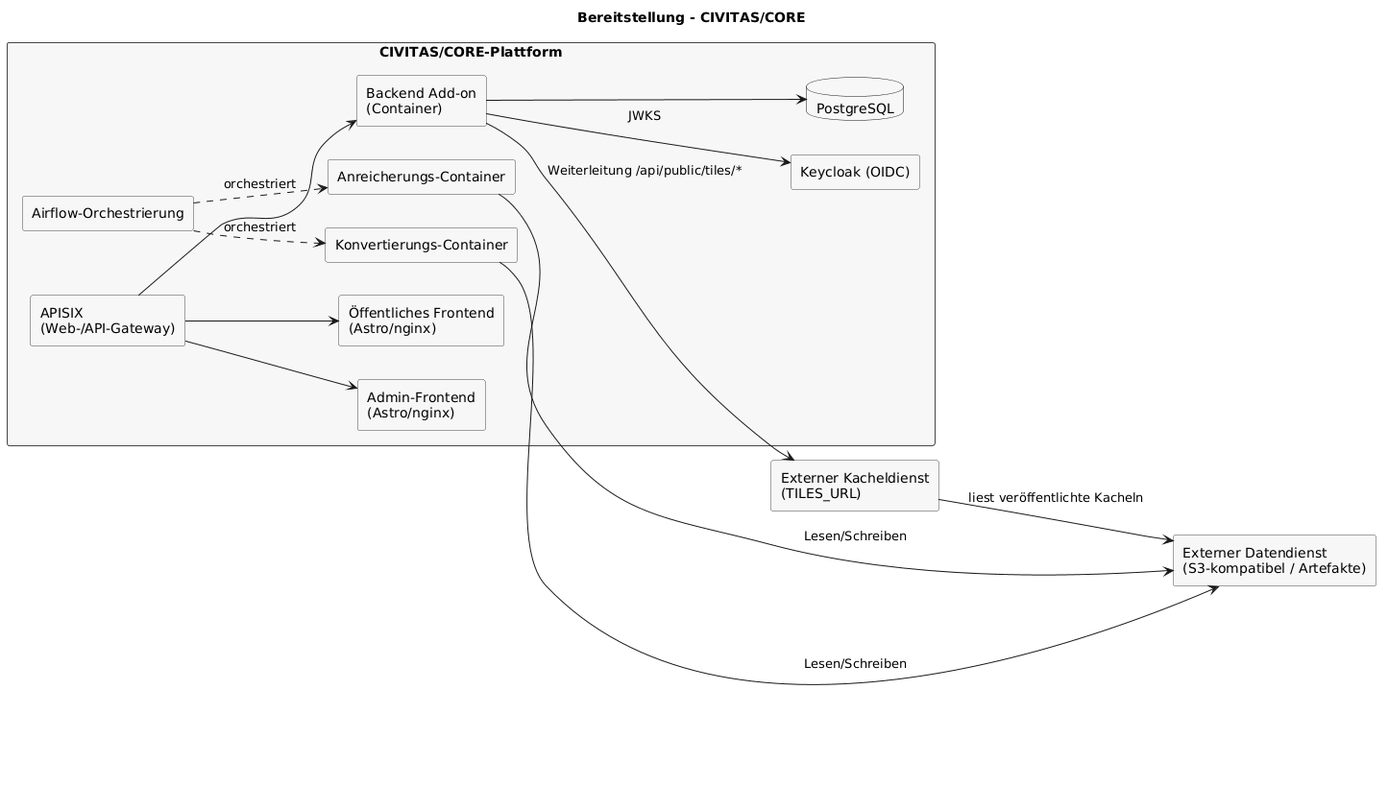
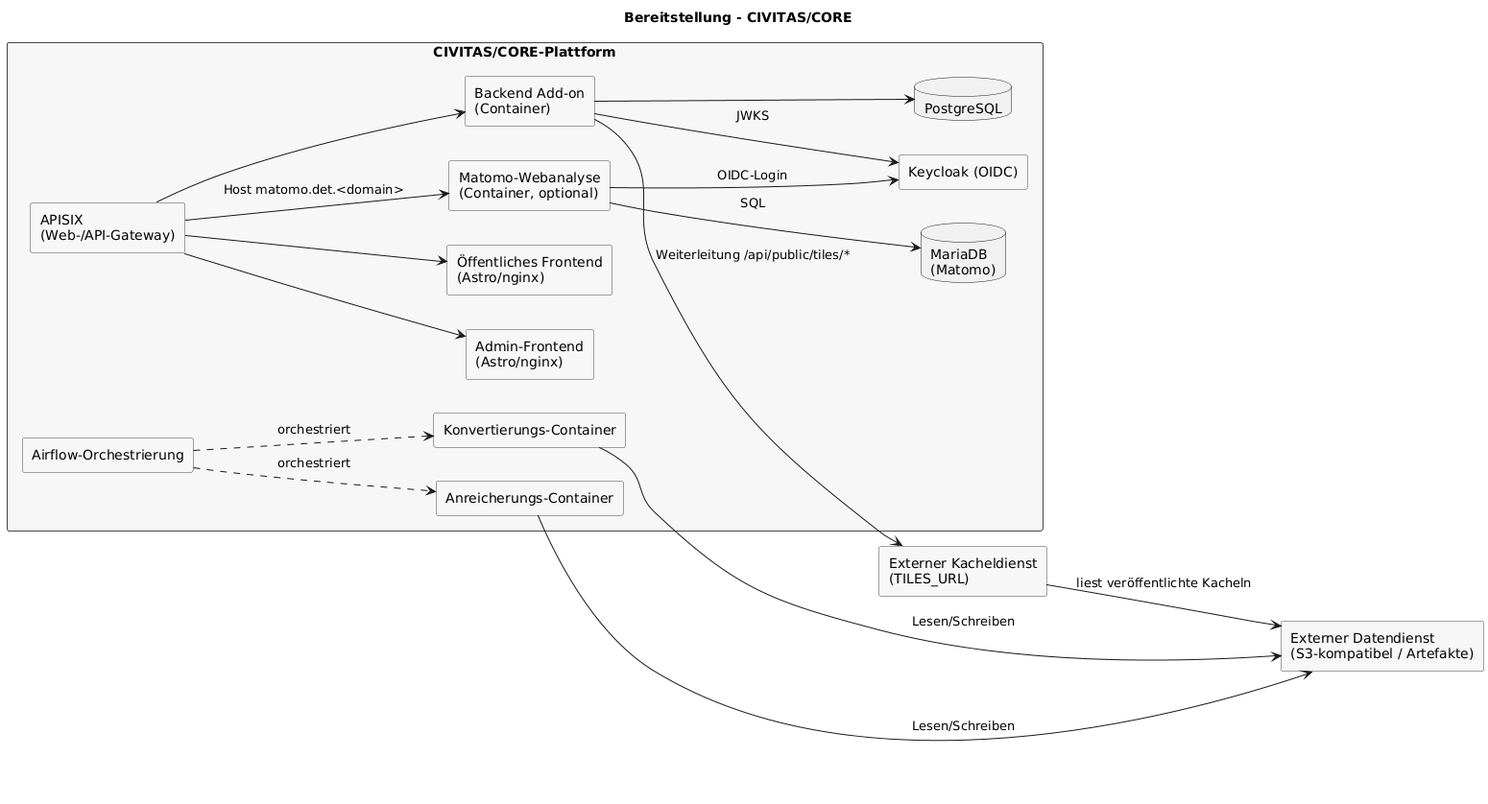
docs: updated the matomo status and diagrams

diff --git a/apps/backend/docs/roadmap/mvp-definition.md b/apps/backend/docs/roadmap/mvp-definition.md
@@ -69,6 +69,7 @@ Quelle: `raw/mvp-roadmap.puml`
 
 | Datum | Betroffener Umfang | Bisheriger Stand | Neuer Stand |
 | --- | --- | --- | --- |
+| 2026-10-30 | Matomo (FA-115 bis FA-117, FA-119 bis FA-124, TA-129 bis TA-132, TA-143 bis TA-150) | Niedrig priorisiert und keinem Sprint zugeordnet; eine eigene Instanz war noch aufzubauen und abzustimmen | Nach Sprint 19 technisch umgesetzt und ab v1.8.0 enthalten: Tracking-Adapter und Consent-Management im Public-Frontend sowie eine eigene Matomo-Instanz mit Keycloak-Login, die das Deployment-Add-on optional ausrollt. Produktiv noch nicht aktiviert; dafür sind die Freigabe der Betriebsparameter nach FA-117/TA-131 sowie die Aktivierung über `matomo.enable`, `MATOMO_URL` und `MATOMO_SITE_ID` erforderlich |
 | 2026-09-03 | Release-Zuordnung TA-15, TA-116 bis TA-120 und TA-133 bis TA-141 | Die Anforderungen waren im technischen Anforderungsdokument keinem Release beziehungsweise Sprint zugeordnet | TA-15 wird Sprint 18 zugeordnet. TA-116 bis TA-120 sowie TA-133 bis TA-141 werden Release 4 zugeordnet. Die Aktualisierungspipeline wird ohne fest eingebauten Zyklus manuell und nach Bedarf ausgelöst; Ergänzungen der Quellen und Metadaten werden bis einschließlich Sprint 19 nachgeführt |
 | 2026-09-02 | Sprint 18/19 und Inbetriebnahme | Sprint 18 und Sprint 19 waren vollständig für Inbetriebnahme, Abnahmeunterstützung und kritische Korrekturen bis 14.09.2026 vorgesehen | Sprint 18 wird noch für Entwicklung und Sprint 19 für Bugfixing genutzt. Aufgrund der laufenden Plattform-Updates verdichtet sich die Inbetriebnahme auf Sprint 19. Sprint 19 wird tendenziell bis 21.09.2026 verlängert; die zusätzliche Woche erweitert nur den Zeitraum, nicht den geplanten Inhalt |
 | 2026-09-01 | TA-74/TA-75 - Rechenmethoden und Nachweise | Die verwendeten Formeln, externen Katalogwerte und Fundstellen waren nicht in einem einheitlichen, versionsgebundenen Nachweis zusammengeführt | Der implementierte Rechenumfang ist mit Core v0.19.0, konkreten Formeln, Codepfaden, Seiten-, Tabellen- und Zeilenbezügen dokumentiert; TA-75 und TA-74 sind insoweit abgeschlossen. Nur der nicht implementierte Teilumfang Sanierungsinvestitionen/Amortisation bleibt wegen des fehlenden BKI-Datenzugangs blockiert |
@@ -209,7 +210,7 @@ Ergebnis:
 
 Zugeordnete Anforderungen:
 
-> **Aktuelle Abweichung von der historischen Release-Zuordnung:** FA-84 und FA-95 sind wegen fehlender BKI-Daten keinem Sprint zugeordnet. White-Labeling (FA-106 bis FA-114, TA-121 bis TA-128) ist für Sprint 18 vorgesehen. Matomo (FA-115 bis FA-117, TA-129 bis TA-132) ist niedrig priorisiert und aktuell keinem verbindlichen Sprint zugeordnet.
+> **Aktuelle Abweichung von der historischen Release-Zuordnung:** FA-84 und FA-95 sind wegen fehlender BKI-Daten keinem Sprint zugeordnet. White-Labeling (FA-106 bis FA-114, TA-121 bis TA-128) ist für Sprint 18 vorgesehen. Matomo (FA-115 bis FA-117, TA-129 bis TA-132) wurde nach Sprint 19 technisch umgesetzt (ab v1.8.0), ist aber noch nicht produktiv aktiviert.
 
 - Fachliche Anforderungen: [FA-01](../requirements/02-functional-requirements.md#fa-01), [FA-02](../requirements/02-functional-requirements.md#fa-02), [FA-03](../requirements/02-functional-requirements.md#fa-03), [FA-07](../requirements/02-functional-requirements.md#fa-07), [FA-08](../requirements/02-functional-requirements.md#fa-08), [FA-09](../requirements/02-functional-requirements.md#fa-09), [FA-10](../requirements/02-functional-requirements.md#fa-10), [FA-11](../requirements/02-functional-requirements.md#fa-11), [FA-12](../requirements/02-functional-requirements.md#fa-12), [FA-13](../requirements/02-functional-requirements.md#fa-13), [FA-14](../requirements/02-functional-requirements.md#fa-14), [FA-15](../requirements/02-functional-requirements.md#fa-15), [FA-16](../requirements/02-functional-requirements.md#fa-16), [FA-17](../requirements/02-functional-requirements.md#fa-17), [FA-18](../requirements/02-functional-requirements.md#fa-18), [FA-19](../requirements/02-functional-requirements.md#fa-19), [FA-20](../requirements/02-functional-requirements.md#fa-20), [FA-21](../requirements/02-functional-requirements.md#fa-21), [FA-22](../requirements/02-functional-requirements.md#fa-22), [FA-23](../requirements/02-functional-requirements.md#fa-23), [FA-24](../requirements/02-functional-requirements.md#fa-24), [FA-25](../requirements/02-functional-requirements.md#fa-25), [FA-26](../requirements/02-functional-requirements.md#fa-26), [FA-27](../requirements/02-functional-requirements.md#fa-27), [FA-28](../requirements/02-functional-requirements.md#fa-28), [FA-29](../requirements/02-functional-requirements.md#fa-29), [FA-30](../requirements/02-functional-requirements.md#fa-30), [FA-39](../requirements/02-functional-requirements.md#fa-39), [FA-40](../requirements/02-functional-requirements.md#fa-40), [FA-41](../requirements/02-functional-requirements.md#fa-41), [FA-65](../requirements/02-functional-requirements.md#fa-65), [FA-66](../requirements/02-functional-requirements.md#fa-66), [FA-67](../requirements/02-functional-requirements.md#fa-67), [FA-73](../requirements/02-functional-requirements.md#fa-73), [FA-78](../requirements/02-functional-requirements.md#fa-78), [FA-79](../requirements/02-functional-requirements.md#fa-79), [FA-80](../requirements/02-functional-requirements.md#fa-80), [FA-81](../requirements/02-functional-requirements.md#fa-81), [FA-83](../requirements/02-functional-requirements.md#fa-83), [FA-84](../requirements/02-functional-requirements.md#fa-84), [FA-91](../requirements/02-functional-requirements.md#fa-91), [FA-92](../requirements/02-functional-requirements.md#fa-92), [FA-93](../requirements/02-functional-requirements.md#fa-93), [FA-94](../requirements/02-functional-requirements.md#fa-94), [FA-95](../requirements/02-functional-requirements.md#fa-95), [FA-96](../requirements/02-functional-requirements.md#fa-96), [FA-97](../requirements/02-functional-requirements.md#fa-97), [FA-98](../requirements/02-functional-requirements.md#fa-98), [FA-99](../requirements/02-functional-requirements.md#fa-99), [FA-105](../requirements/02-functional-requirements.md#fa-105), [FA-106](../requirements/02-functional-requirements.md#fa-106), [FA-107](../requirements/02-functional-requirements.md#fa-107), [FA-108](../requirements/02-functional-requirements.md#fa-108), [FA-109](../requirements/02-functional-requirements.md#fa-109), [FA-110](../requirements/02-functional-requirements.md#fa-110), [FA-111](../requirements/02-functional-requirements.md#fa-111), [FA-112](../requirements/02-functional-requirements.md#fa-112), [FA-113](../requirements/02-functional-requirements.md#fa-113), [FA-114](../requirements/02-functional-requirements.md#fa-114), [FA-115](../requirements/02-functional-requirements.md#fa-115), [FA-116](../requirements/02-functional-requirements.md#fa-116), [FA-117](../requirements/02-functional-requirements.md#fa-117)
 - Technische Anforderungen: [TA-65](../requirements/03-technical-requirements.md#ta-65), [TA-66](../requirements/03-technical-requirements.md#ta-66), [TA-67](../requirements/03-technical-requirements.md#ta-67), [TA-68](../requirements/03-technical-requirements.md#ta-68), [TA-69](../requirements/03-technical-requirements.md#ta-69), [TA-70](../requirements/03-technical-requirements.md#ta-70), [TA-74](../requirements/03-technical-requirements.md#ta-74), [TA-75](../requirements/03-technical-requirements.md#ta-75), [TA-84](../requirements/03-technical-requirements.md#ta-84), [TA-86](../requirements/03-technical-requirements.md#ta-86), [TA-106](../requirements/03-technical-requirements.md#ta-106), [TA-107](../requirements/03-technical-requirements.md#ta-107), [TA-121](../requirements/03-technical-requirements.md#ta-121), [TA-122](../requirements/03-technical-requirements.md#ta-122), [TA-123](../requirements/03-technical-requirements.md#ta-123), [TA-124](../requirements/03-technical-requirements.md#ta-124), [TA-125](../requirements/03-technical-requirements.md#ta-125), [TA-126](../requirements/03-technical-requirements.md#ta-126), [TA-127](../requirements/03-technical-requirements.md#ta-127), [TA-128](../requirements/03-technical-requirements.md#ta-128), [TA-129](../requirements/03-technical-requirements.md#ta-129), [TA-130](../requirements/03-technical-requirements.md#ta-130), [TA-131](../requirements/03-technical-requirements.md#ta-131), [TA-132](../requirements/03-technical-requirements.md#ta-132)
@@ -466,6 +467,7 @@ Planungsannahmen:
 - Sprint 19 wird tendenziell um eine Woche bis voraussichtlich 21.09.2026 verlängert. Die Verlängerung dient einer geordneten Inbetriebnahme und erweitert den geplanten Inhalt nicht.
 - Über die für Sprint 18 bereits vorgesehenen White-Labeling- und Open-Source-Arbeiten hinaus werden neue fachliche Erweiterungen nur aufgenommen, wenn sie für einen sicheren oder funktionsfähigen Betrieb zwingend erforderlich sind.
 - Matomo ist niedrig priorisiert und wegen der noch aufzubauenden eigenen Instanz keinem verbindlichen Sprint 18/19 zugeordnet. Auch die Solarumsetzung ist wegen des offenen Detailgrads nicht belastbar eingeplant.
+  *Nachtrag:* Matomo wurde nach Sprint 19 technisch umgesetzt (ab v1.8.0, siehe Änderungsverlauf vom 2026-10-30).
 
 Ergebnis:
 

diff --git a/apps/backend/docs/requirements/03-technical-requirements.md b/apps/backend/docs/requirements/03-technical-requirements.md
@@ -1122,30 +1122,30 @@ Mapping-Profile und Kommunenprofile müssen unabhängig voneinander versioniert,
 
 ## 31. Festlegung: Nutzungsdaten und Tracking
 
-*Planungsstand:* Matomo bleibt die vorgesehene Analytics-Lösung, ist technisch jedoch niedrig priorisiert und aktuell keinem verbindlichen Sprint zugeordnet. Entgegen der ursprünglichen Annahme steht in der Kundenumgebung keine bereits nutzbare Matomo-Instanz zur Verfügung. Aufbau, Betrieb und Integration einer eigenen Instanz müssen zunächst abgestimmt werden; eine Umsetzung in Sprint 18 oder 19 ist derzeit unsicher.
+*Umsetzungsstand:* Matomo ist nach Sprint 19 technisch umgesetzt und ab Version v1.8.0 enthalten. Da in der Kundenumgebung keine nutzbare Matomo-Instanz zur Verfügung steht, rollt das Deployment-Add-on optional eine eigene Instanz (Matomo 5 mit MariaDB, Login über Keycloak per LoginOIDC) aus. Produktiv ist Matomo noch nicht aktiviert; dafür sind die Freigabe nach TA-131 sowie die Aktivierung im Add-on (`matomo.enable`) und im Backend (`MATOMO_URL`, `MATOMO_SITE_ID`) erforderlich.
 
 <a id="ta-129"></a>
 
 **TA-129**  
-*Release-Zuordnung:* Nicht im aktuellen Releaseplan zugeordnet.  
+*Release-Zuordnung:* Nach Sprint 19 technisch umgesetzt (ab v1.8.0); produktive Aktivierung offen.  
 Für Nutzungsanalysen ist Matomo verbindlich als Analytics-Lösung einzusetzen.
 
 <a id="ta-130"></a>
 
 **TA-130**  
-*Release-Zuordnung:* Nicht im aktuellen Releaseplan zugeordnet.  
+*Release-Zuordnung:* Nach Sprint 19 technisch umgesetzt (ab v1.8.0); produktive Aktivierung offen.  
 Analytics-Skripte und Tracking-Endpunkte dürfen erst nach gültigem Opt-in aktiviert werden.
 
 <a id="ta-131"></a>
 
 **TA-131**  
-*Release-Zuordnung:* Nicht im aktuellen Releaseplan zugeordnet.  
+*Release-Zuordnung:* Nach Sprint 19 technisch umgesetzt (ab v1.8.0); produktive Aktivierung offen.  
 Vor produktiver Aktivierung von Analytics müssen Eventkatalog, Zweckbindung, Aufbewahrungsfristen, Anonymisierungsregeln, Löschkonzept und Rollen-/Rechtekonzept verbindlich dokumentiert und freigegeben sein. Eventkatalog, KPI-Definitionen und Abnahmekriterien werden im [Matomo-Trackingkonzept](../system/06-matomo-trackingkonzept.md) geführt.
 
 <a id="ta-132"></a>
 
 **TA-132**  
-*Release-Zuordnung:* Nicht im aktuellen Releaseplan zugeordnet.  
+*Release-Zuordnung:* Nach Sprint 19 technisch umgesetzt (ab v1.8.0); produktive Aktivierung offen.  
 Tracking-Funktionen müssen ohne gültiges Opt-in standardmäßig deaktiviert bleiben.
 
 ---
@@ -1251,54 +1251,54 @@ Für den Abnahmeprozess sind bei der Stadt Regensburg jeweils ein fachlicher und
 
 ## 35. Konkretisierung: Matomo-Tracking
 
-*Planungsstand:* Die folgenden Anforderungen bleiben der verbindliche technische Zielzustand für eine spätere Matomo-Aktivierung. Wegen der noch ausstehenden Bereitstellung und Betriebsabstimmung einer eigenen Instanz sind sie aktuell keinem verbindlichen Sprint zugeordnet.
+*Umsetzungsstand:* Die folgenden Anforderungen sind ab Version v1.8.0 im zentralen Tracking-Adapter des Public-Frontends umgesetzt und automatisiert getestet. Ohne Konfiguration und Opt-in bleibt das Tracking inaktiv; Details im [Matomo-Trackingkonzept](../system/06-matomo-trackingkonzept.md#technische-umsetzung).
 
 <a id="ta-143"></a>
 
 **TA-143**  
-*Release-Zuordnung:* Nicht im aktuellen Releaseplan zugeordnet.  
+*Release-Zuordnung:* Nach Sprint 19 technisch umgesetzt (ab v1.8.0); produktive Aktivierung offen.  
 Der gesamte öffentliche Sanierungscheck muss je Laufzeitumgebung über genau eine zentral konfigurierte Matomo-Site-ID erfasst werden. Produktiv-, Test- und Entwicklungsdaten dürfen nicht in derselben Matomo-Site zusammengeführt werden.
 
 <a id="ta-144"></a>
 
 **TA-144**  
-*Release-Zuordnung:* Nicht im aktuellen Releaseplan zugeordnet.  
+*Release-Zuordnung:* Nach Sprint 19 technisch umgesetzt (ab v1.8.0); produktive Aktivierung offen.  
 Das Public-Frontend muss sämtliche Analyseereignisse über einen zentralen Tracking-Adapter senden. Direkte Matomo-Aufrufe aus einzelnen UI-Komponenten sind unzulässig; Eventcodes, Parameter und Werte müssen vor dem Versand gegen versionierte Allow-Lists validiert werden.
 
 <a id="ta-145"></a>
 
 **TA-145**  
-*Release-Zuordnung:* Nicht im aktuellen Releaseplan zugeordnet.  
+*Release-Zuordnung:* Nach Sprint 19 technisch umgesetzt (ab v1.8.0); produktive Aktivierung offen.  
 Vor gültigem Opt-in dürfen keine Matomo-Skripte oder sonstigen Matomo-Ressourcen geladen, keine Matomo-Endpunkte aufgerufen und keine Ereignisse für eine spätere Übermittlung gepuffert werden. Vor der Einwilligung entstandene Ereignisse dürfen nachträglich nicht versendet werden.
 
 <a id="ta-146"></a>
 
 **TA-146**  
-*Release-Zuordnung:* Nicht im aktuellen Releaseplan zugeordnet.  
+*Release-Zuordnung:* Nach Sprint 19 technisch umgesetzt (ab v1.8.0); produktive Aktivierung offen.  
 Tracking-Payloads müssen von Zustands- und Übertragungsobjekten der Gebäudedatenspende getrennt erzeugt werden. Gebäude-, Adress-, Personen-, Verbrauchs-, Kosten-, Berechnungs-, Einreichungs- und Löschdaten sowie daraus gebildete Hashes oder Pseudonyme dürfen nicht an Matomo übergeben werden.
 
 <a id="ta-147"></a>
 
 **TA-147**  
-*Release-Zuordnung:* Nicht im aktuellen Releaseplan zugeordnet.  
+*Release-Zuordnung:* Nach Sprint 19 technisch umgesetzt (ab v1.8.0); produktive Aktivierung offen.  
 An Matomo übermittelte Seitenadressen, Seitentitel, Referrer und benutzerdefinierte Dimensionen müssen vor dem Versand von sensiblen Queryparametern, URL-Fragmenten, Tokens und Objektkennungen bereinigt werden.
 
 <a id="ta-148"></a>
 
 **TA-148**  
-*Release-Zuordnung:* Nicht im aktuellen Releaseplan zugeordnet.  
+*Release-Zuordnung:* Nach Sprint 19 technisch umgesetzt (ab v1.8.0); produktive Aktivierung offen.  
 Ein verwendeter Sitzungsbezug muss zufällig erzeugt, auf den freigegebenen Sitzungszeitraum begrenzt und unabhängig von Gebäude-, Einreichungs- oder Nutzerdaten sein. Ohne gesonderte Freigabe darf keine dauerhafte Besucher- oder kommunenübergreifende Nutzerkennung erzeugt werden.
 
 <a id="ta-149"></a>
 
 **TA-149**  
-*Release-Zuordnung:* Nicht im aktuellen Releaseplan zugeordnet.  
+*Release-Zuordnung:* Nach Sprint 19 technisch umgesetzt (ab v1.8.0); produktive Aktivierung offen.  
 Nach Widerruf der Tracking-Einwilligung muss der Tracking-Adapter weitere Matomo-Aufrufe sofort unterbinden und lokal gespeicherte Matomo-Kennungen entsprechend der freigegebenen Konfiguration entfernen. Die technisch notwendige lokale Speicherung des Bearbeitungsstands und die Einwilligung zur Gebäudedatenspende müssen davon unabhängig bleiben.
 
 <a id="ta-150"></a>
 
 **TA-150**  
-*Release-Zuordnung:* Nicht im aktuellen Releaseplan zugeordnet.  
+*Release-Zuordnung:* Nach Sprint 19 technisch umgesetzt (ab v1.8.0); produktive Aktivierung offen.  
 Consent-Gating, Allow-List-Validierung, Ausschluss sensibler Felder und URLs, Eventtrigger, Schutz vor unbeabsichtigter Mehrfacherfassung sowie KPI-Berechnungen müssen automatisiert getestet werden. Vor Produktivbetrieb müssen außerdem Site-ID, Speichertechniken, Sitzungs-Timeout, IP-Anonymisierung, Aufbewahrungsfristen, Rollen, Berichtsempfänger und Mindestfallzahl für Maßnahmenkombinationen dokumentiert und freigegeben sein.
 
 ---

diff --git a/apps/backend/docs/requirements/02-functional-requirements.md b/apps/backend/docs/requirements/02-functional-requirements.md
@@ -910,24 +910,24 @@ Eine DEZ-Instanz soll fachlich immer genau eine Kommune abbilden; die Nachnutzun
 
 ## Festlegung: Nutzungsdaten und Tracking
 
-*Planungsstand:* Matomo bleibt die fachlich vorgesehene Analytics-Lösung, die technische Umsetzung ist aktuell jedoch niedrig priorisiert und keinem verbindlichen Sprint zugeordnet. Entgegen der ursprünglichen Annahme steht in der Kundenumgebung keine bereits nutzbare Matomo-Instanz zur Verfügung. Eine eigene Instanz und deren Betrieb müssen zunächst mit dem Auftraggeber abgestimmt werden; eine Umsetzung in Sprint 18 oder 19 ist derzeit unsicher.
+*Umsetzungsstand:* Matomo ist nach Sprint 19 technisch umgesetzt und ab Version v1.8.0 enthalten. Da in der Kundenumgebung keine nutzbare Matomo-Instanz zur Verfügung steht, rollt das Deployment-Add-on optional eine eigene Instanz mit Login über Keycloak aus. Produktiv ist Matomo noch nicht aktiviert; dafür sind die Freigabe nach FA-117 sowie die Aktivierung im Add-on (`matomo.enable`) und im Backend (`MATOMO_URL`, `MATOMO_SITE_ID`) erforderlich.
 
 <a id="fa-115"></a>
 
 **FA-115**  
-*Release-Zuordnung:* Nicht im aktuellen Releaseplan zugeordnet.  
+*Release-Zuordnung:* Nach Sprint 19 technisch umgesetzt (ab v1.8.0); produktive Aktivierung offen.  
 Für Nutzungsanalysen wird Matomo verbindlich eingesetzt.
 
 <a id="fa-116"></a>
 
 **FA-116**  
-*Release-Zuordnung:* Nicht im aktuellen Releaseplan zugeordnet.  
+*Release-Zuordnung:* Nach Sprint 19 technisch umgesetzt (ab v1.8.0); produktive Aktivierung offen.  
 Nutzungsdatenanalysen dürfen fachlich nur nach expliziter Einwilligung (Opt-in) erfolgen.
 
 <a id="fa-117"></a>
 
 **FA-117**  
-*Release-Zuordnung:* Nicht im aktuellen Releaseplan zugeordnet.  
+*Release-Zuordnung:* Nach Sprint 19 technisch umgesetzt (ab v1.8.0); produktive Aktivierung offen.  
 Der konkrete fachliche Umfang für Tracking, einschließlich Metriken, Auswertungszielen, Eventkatalog und Berichtskreisen, muss vor produktiver Aktivierung verbindlich festgelegt sein. Der aktuelle fachliche Zielstand ist im [Matomo-Trackingkonzept](../system/06-matomo-trackingkonzept.md) dokumentiert.
 
 ---
@@ -948,42 +948,42 @@ Für den Abnahmeprozess sind bei der Stadt Regensburg jeweils ein fachlicher und
 
 ## Konkretisierung: Matomo-Auswertungsumfang
 
-*Planungsstand:* Die folgenden Anforderungen beschreiben weiterhin den fachlichen Zielumfang, sind wegen der noch ausstehenden Bereitstellung und Betriebsabstimmung einer eigenen Matomo-Instanz jedoch aktuell keinem verbindlichen Sprint zugeordnet.
+*Umsetzungsstand:* Der folgende fachliche Zielumfang ist ab Version v1.8.0 technisch umgesetzt, aber noch nicht produktiv aktiviert. Vor der Aktivierung sind die Betriebsparameter aus dem [Matomo-Trackingkonzept](../system/06-matomo-trackingkonzept.md#betriebsparameter-und-berichtszugriff) freizugeben, darunter die Mindestfallzahl für Maßnahmenkombinationen (FA-124).
 
 <a id="fa-119"></a>
 
 **FA-119**  
-*Release-Zuordnung:* Nicht im aktuellen Releaseplan zugeordnet.  
+*Release-Zuordnung:* Nach Sprint 19 technisch umgesetzt (ab v1.8.0); produktive Aktivierung offen.  
 Der gesamte öffentliche Sanierungscheck einschließlich des gesonderten Prozesses zur freiwilligen Gebäudedatenspende muss fachlich über genau eine Matomo-Site ausgewertet werden. Die eigentlichen Daten der Gebäudedatenspende sind davon ausgenommen.
 
 <a id="fa-120"></a>
 
 **FA-120**  
-*Release-Zuordnung:* Nicht im aktuellen Releaseplan zugeordnet.  
+*Release-Zuordnung:* Nach Sprint 19 technisch umgesetzt (ab v1.8.0); produktive Aktivierung offen.  
 Die Webanalyse muss begonnene und abgeschlossene Sanierungschecks, PDF-Exporte, Beratungskontakte, begonnene und abgeschlossene Datenspenden sowie Abbruchabschnitte und Abbruchquote auswerten können. Definitionen und Nenner der Kennzahlen müssen dem [Matomo-Trackingkonzept](../system/06-matomo-trackingkonzept.md#kennzahlen) entsprechen.
 
 <a id="fa-121"></a>
 
 **FA-121**  
-*Release-Zuordnung:* Nicht im aktuellen Releaseplan zugeordnet.  
+*Release-Zuordnung:* Nach Sprint 19 technisch umgesetzt (ab v1.8.0); produktive Aktivierung offen.  
 Gebäudetypen und ausgewählte Sanierungsmaßnahmen dürfen für aggregierte Auswertungen als fachlich freigegebene Kategorieschlüssel erfasst werden. Wertebereiche und Bezeichnungen müssen versioniert und auf die im Sanierungstool tatsächlich auswählbaren Optionen beschränkt sein.
 
 <a id="fa-122"></a>
 
 **FA-122**  
-*Release-Zuordnung:* Nicht im aktuellen Releaseplan zugeordnet.  
+*Release-Zuordnung:* Nach Sprint 19 technisch umgesetzt (ab v1.8.0); produktive Aktivierung offen.  
 Matomo darf keine Gebäude-ID, Adresse, Koordinaten, Einreichungs- oder Löschkennung, Kontaktdaten, Freitexte, exakten Verbrauchs- oder Kostenwerte und keine vollständigen Eingabe-, Ergebnis- oder Einreichungsdaten erhalten. Die fachliche Gebäudedatenspende muss einen von Matomo getrennten Datenstrom verwenden.
 
 <a id="fa-123"></a>
 
 **FA-123**  
-*Release-Zuordnung:* Nicht im aktuellen Releaseplan zugeordnet.  
+*Release-Zuordnung:* Nach Sprint 19 technisch umgesetzt (ab v1.8.0); produktive Aktivierung offen.  
 Tracking darf nur für ausdrücklich eingewilligte Sitzungen erfolgen. Ohne freigegebene dauerhafte Besucherkennung müssen Berichte und Kennzahlen Sitzungen beziehungsweise Besuche ausweisen und dürfen diese nicht als eindeutig identifizierte Personen bezeichnen.
 
 <a id="fa-124"></a>
 
 **FA-124**  
-*Release-Zuordnung:* Nicht im aktuellen Releaseplan zugeordnet.  
+*Release-Zuordnung:* Nach Sprint 19 technisch umgesetzt (ab v1.8.0); produktive Aktivierung offen.  
 Dashboards müssen die verbindlichen KPI-Definitionen verwenden und aggregierte Ergebnisse bereitstellen. Für die Auswertung von Maßnahmenkombinationen ist vor Produktivbetrieb eine fachlich und datenschutzrechtlich freigegebene Mindestfallzahl festzulegen.
 
 ---

diff --git a/apps/backend/docs/architecture/11-architecture-frontend.md b/apps/backend/docs/architecture/11-architecture-frontend.md
@@ -61,6 +61,7 @@ Dieses Kapitel beschreibt Aufbau, Verantwortlichkeiten und Schnittstellen des Fr
 - Öffentliche und administrative Backend-APIs.
 - Generierter, typsicherer API-Client aus OpenAPI 3.0 oder höher; Werkzeug und verbindliche Konventionen sind noch zu klären.
 - Basemap-Dienste (WMS/WMTS) für Kartenhintergründe.
+- Optional die Matomo-HTTP-Tracking-API über APISIX (Host `matomo.det.<domain>`); Tracker-URL und Site-ID liefert `GET /api/public/analytics-config`, gesendet wird erst nach Opt-in.
 
 ---
 
@@ -85,7 +86,7 @@ Quelle: `raw/frontend-architecture.puml`
 <a id="consent-und-matomo-tracking"></a>
 ## Consent und Matomo-Tracking
 
-> **Umsetzungsstand:** Dieser Abschnitt beschreibt das Zielbild. Matomo ist noch nicht aktiviert und aktuell niedrig priorisiert. Da keine zugängliche Kundeninstanz vorhanden ist, müssen eine eigene Instanz sowie Betrieb und Zuständigkeiten abgestimmt werden; eine Umsetzung in Sprint 18 oder 19 ist offen. Die technische Anbindung ist bereits vorbereitet und bleibt ohne die Backend-Variablen `MATOMO_URL` und `MATOMO_SITE_ID` vollständig inaktiv; Details im [Matomo-Trackingkonzept](../system/06-matomo-trackingkonzept.md#technische-umsetzung).
+> **Umsetzungsstand:** Consent-Management und Tracking-Adapter sind ab Version v1.8.0 umgesetzt; eine eigene Matomo-Instanz stellt optional das Deployment-Add-on bereit. Produktiv ist Matomo noch nicht aktiviert. Ohne die Backend-Variablen `MATOMO_URL` und `MATOMO_SITE_ID` bleibt die Anbindung vollständig inaktiv; Details im [Matomo-Trackingkonzept](../system/06-matomo-trackingkonzept.md#technische-umsetzung).
 
 - Das Public-Frontend verwaltet den Consent-Status für Webanalyse unabhängig von technisch notwendiger lokaler Speicherung und der gesonderten Einwilligung zur Gebäudedatenspende.
 - Matomo-Ressourcen und der zentrale Tracking-Adapter werden erst nach gültigem Opt-in aktiviert.

diff --git a/apps/backend/docs/system/06-matomo-trackingkonzept.md b/apps/backend/docs/system/06-matomo-trackingkonzept.md
@@ -1,7 +1,7 @@
 # Matomo-Trackingkonzept und Eventkatalog
 
 > **Status:** Fachlicher Zielstand, Stand 14. August 2026  
-> **Umsetzungsstand:** Matomo und Consent-Management sind im Public-Frontend noch nicht produktiv aktiviert und aktuell niedrig priorisiert. Entgegen der früheren Annahme steht keine zugängliche Matomo-Instanz des Auftraggebers bereit. Eine eigene Instanz sowie Betrieb und Zuständigkeiten müssen abgestimmt werden; die Umsetzung in Sprint 18 oder 19 ist nicht verbindlich zugesagt. Die technische Anbindung ist im Public-Frontend vorbereitet und bleibt inaktiv, solange für die Umgebung keine Matomo-Instanz konfiguriert ist (siehe [Technische Umsetzung](#technische-umsetzung)).  
+> **Umsetzungsstand:** Tracking-Adapter, Consent-Management und eine eigene Matomo-Instanz sind ab Version v1.8.0 technisch umgesetzt, aber noch nicht produktiv aktiviert. Da keine zugängliche Matomo-Instanz des Auftraggebers bereitsteht, rollt das Deployment-Add-on optional eine eigene Instanz mit Login über Keycloak aus ([images/matomo](https://github.com/csi-FOXBYTE/Regensburg_DigitalerEnergieZwilling_digital-energy-twin_addon/tree/main/images/matomo)). Die Anbindung bleibt inaktiv, solange für die Umgebung keine Matomo-Instanz konfiguriert ist (siehe [Technische Umsetzung](#technische-umsetzung)); vor der Aktivierung sind die [Betriebsparameter](#betriebsparameter-und-berichtszugriff) freizugeben.  
 > **Geltungsbereich:** Öffentlicher Teil des Sanierungstools des Digitalen Energie Zwillings (DEZ)
 
 ## Inhaltsverzeichnis

diff --git a/apps/backend/docs/architecture/14-architecture-deployment.md b/apps/backend/docs/architecture/14-architecture-deployment.md
@@ -31,6 +31,7 @@ angebunden werden.
   externen Basis- und Fachdaten aktiviert. Die Binärdaten verbleiben an der Quelle
   beziehungsweise im S3-kompatiblen Datendienst.
 - PostgreSQL-Datenbank und Identity Provider werden als Plattformdienste innerhalb von CIVITAS/CORE angebunden.
+- Matomo-Webanalyse ist optional: Mit `matomo.enable` rollt das Deployment-Add-on einen eigenen Matomo-Container mit eigener MariaDB-Datenbank aus. APISIX leitet den Host `matomo.det.<domain>` weiter; darüber laufen sowohl die Tracking-Requests des öffentlichen Clients als auch die Auswertung durch das Fachpersonal.
 
 ---
 
@@ -62,7 +63,8 @@ angebunden werden.
 <a id="deployment-diagramm"></a>
 ## Deployment-Diagramm
 
-Das Diagramm zeigt die Kerncontainer und Zugriffspfade; Stellio als
+Das Diagramm zeigt die Kerncontainer, die optionale Matomo-Webanalyse und die
+Zugriffspfade; Stellio als
 NGSI-LD-Kontextdienst und Piveau als Metadatenkatalog sind ergänzend im Text
 berücksichtigt.
 
